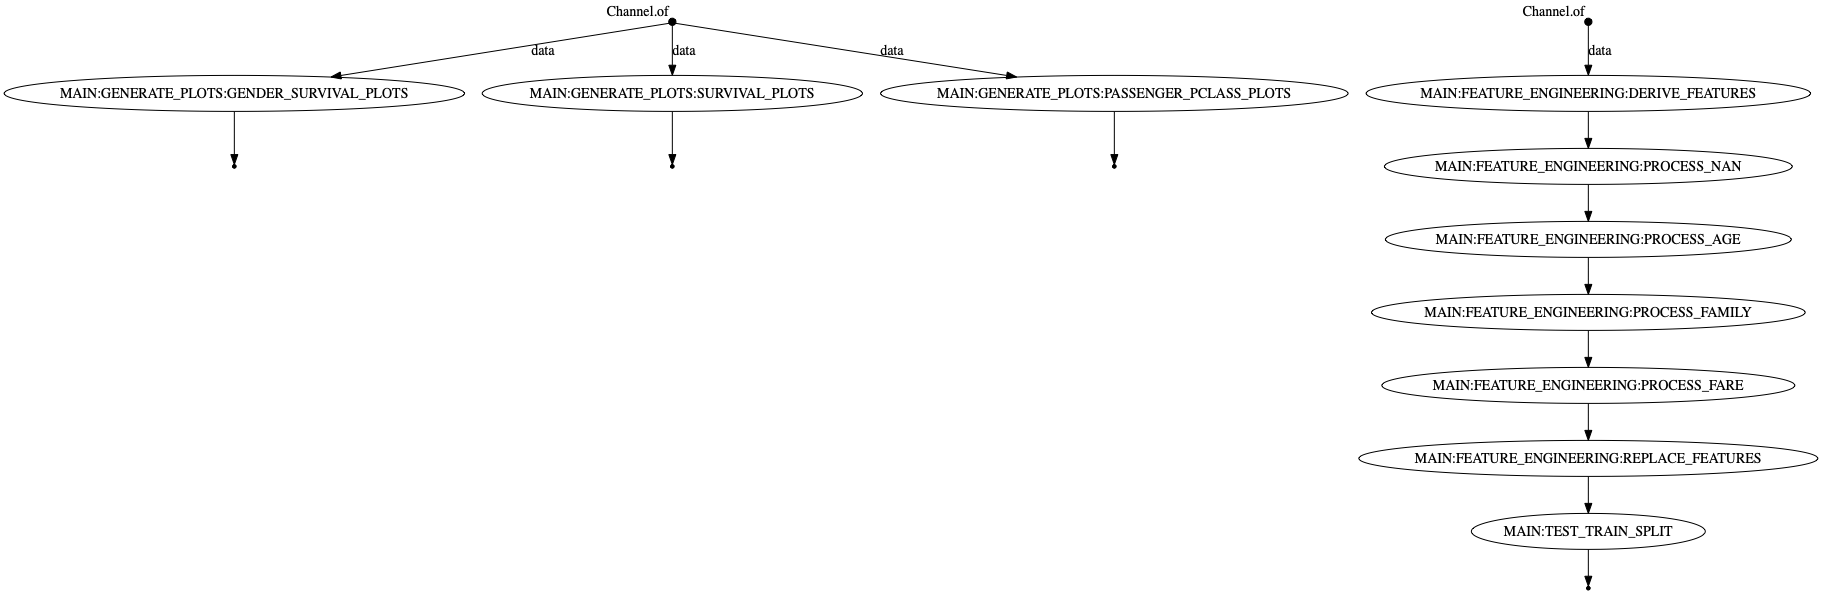
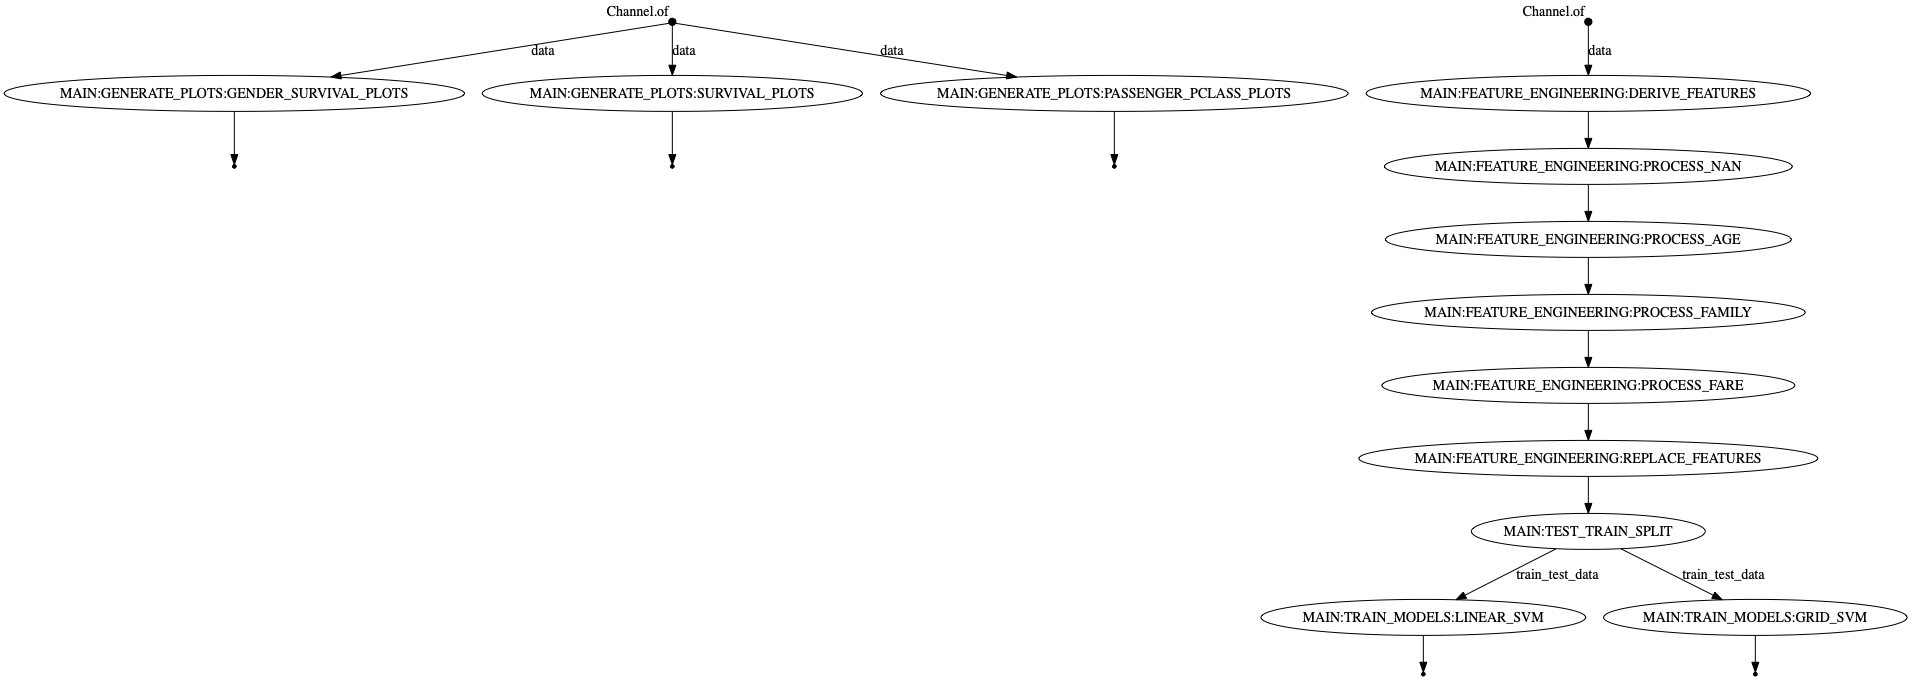
add the image for all workflows

Changed region(s): [[0.0, 0.0, 1.0, 0.9394], [0.7991, 0.0, 0.8606, 0.0303], [0.461, 0.0606, 0.4918, 0.0909]]

diff --git a/README.md b/README.md
@@ -61,3 +61,10 @@ nextflow run main.nf -entry MAIN -params-file test_params.yml
 #### Feature engineering workflow
 
 ![Feature Engineering workflow](./docs/feature_engineering_flowchart.png)
+
+
+
+#### Model training workflow
+
+![Model Training workflow](./docs/model_training_workflow.png)
+
